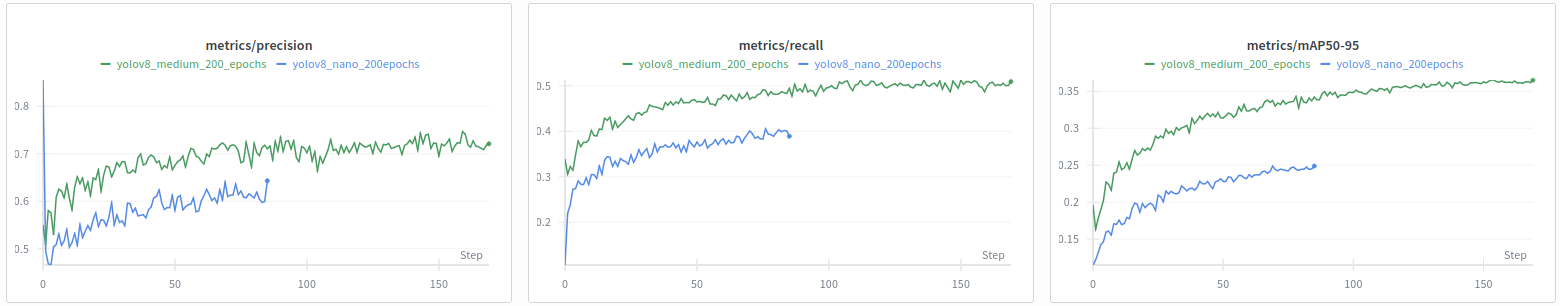
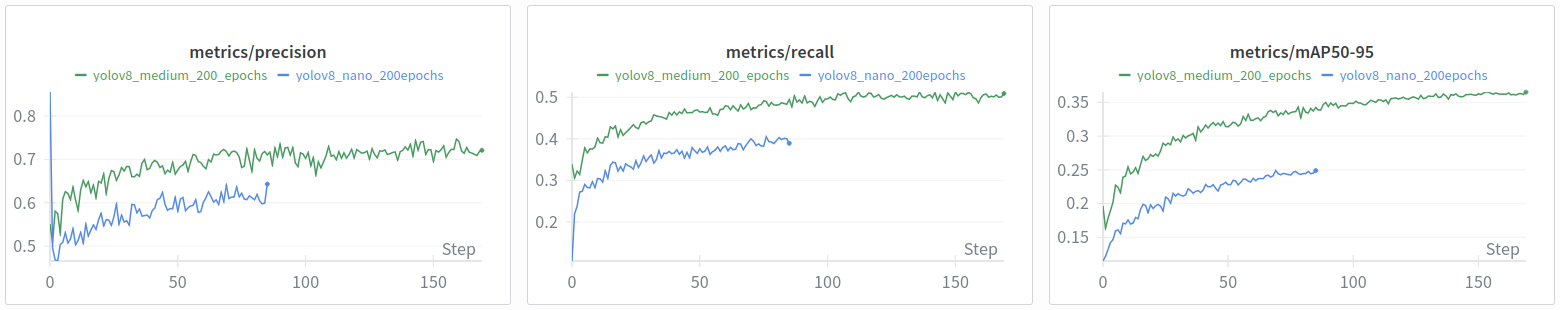
Nueva seccion en bt4

diff --git a/latex/bt4/entrega.tex b/latex/bt4/entrega.tex
@@ -80,32 +80,13 @@
 \clearpage
 
 \section*{Introducción}
-En este informe se detallan las implementaciones y resultados obtenidos en las tareas de procesamiento de imágenes realizadas en el contexto de los bloques de trabajo BT1 y BT2.
+En este informe se detallan las implementaciones y resultados obtenidos en las tareas de procesamiento de imágenes realizadas en el contexto de los bloques de trabajo BT4.
 Cada bloque de técnicas recibe su propio apartado. 
 Todas las referencias a código fuente, notebooks y datos se encuentran en el repositorio de GitHub asociado al proyecto: \href{https://github.com/oscarveral/vision}{vision}
 
 \section*{Items cubiertos}
 \begin{itemize}
-  \item \textbf{BT1d (5\%x3)}. Implementación de filtros de
-    procesamiento de imágenes básicos y avanzados.
-  \item \textbf{BT1ewc (10\%)}. Implementación manual de algoritmos
-    de procesamiento de imágenes en C y Python.
-  \item \textbf{BT1f (5\%)}. Segmentación-Conteo HSV.
-  \item \textbf{BT1h (5\%)}. Rectificación planar. Deshacer la
-    distorsión de la lente ojo de pez.
-  \item \textbf{BT1o (5\%)}. Umbralizado dinámico con Otsu y CLAHE.
-  \item \textbf{BT1p (5\%)}. Gráficas de resultados y comparativas
-    de rendimiento.
-  \item \textbf{BT2a (5\%)}. RANSAC/HT para rectas.
-  \item \textbf{BT2c (5\%)}. Estudio empírico de la convergencia.
-  \item \textbf{BT2d (5\%)}. RANSAC/HT para círculos.
-  \item \textbf{BT2e (5\%)}. Detección multi-instancia.
-\end{itemize}
-
-\section*{Items cubiertos parcialmente}
-\begin{itemize}
-  \item \textbf{BT2g (5\%)}. Modelo geométrico más complejo: por la implementación de detección de segmentos a partir de la detección de rectas.
-  \item \textbf{BT2i (10\%)}. Programación HT/RANSAC manual: se ha implementado RANSAC desde cero en C, pero no se ha llegado a comparar con funciones de librería.
+  \item \textbf{TODO}.
 \end{itemize}
 
 
@@ -114,6 +95,9 @@ Todas las referencias a código fuente, notebooks y datos se encuentran en el re
 
 Para las aplicaciones de Deep Learning hemos querido centrarnos en la detección de objetos. En el caso de nuestro dataset,
 buscamos detecctar señales de tráfico. Para esta tarea, hemos escogido reentrenar modelos de la familia YOLOv8.
+
+\textit{Items de evaluación: \underline{\textbf{BT1h}},
+\underline{\textbf{BT1ewc}}.}
 
 \subsection{Arquitectura del modelo}
 
@@ -175,21 +159,21 @@ aplica las siguientes transformaciones:
             generando archivos \texttt{.txt} vacíos para ellas.
 \end{itemize}
 
-El dataset resultante, denominado \texttt{bt4}, consta de un subconjunto de 2000 imágenes 
-seleccionadas de forma uniformemente aleatoria de entre las primeras 50000 de ZOD. 
+El dataset resultante, denominado \texttt{bt4}, consta de un subconjunto de 2,000 imágenes 
+seleccionadas de forma uniformemente aleatoria de entre las primeras 50,000 de ZOD. 
 Estas se encuentran divididas en un 80\% para entrenamiento (\textit{Train}) y un 20\% 
-para validación (\textit{Val}).
+para validación (\textit{Val}) acompañadas de sus correspondientes archivos de anotaciones en formato YOLO.
 
 % Un mosaico 3x2 de imágenes de ejemplo con sus bounding boxes
 \begin{figure}[H]
     \centering
     \begin{tabular}{ccc}
-        \includegraphics[width=0.3\textwidth]{images/bt4/000080.png} &
-        \includegraphics[width=0.3\textwidth]{images/bt4/000196.png} &
-        \includegraphics[width=0.3\textwidth]{images/bt4/000329.png} \\
-        \includegraphics[width=0.3\textwidth]{images/bt4/000742.png} &
-        \includegraphics[width=0.3\textwidth]{images/bt4/001955.png} &
-        \includegraphics[width=0.3\textwidth]{images/bt4/002152.png} \\
+        \includegraphics[width=0.49\textwidth]{images/bt4/000080.png} &
+        \includegraphics[width=0.49\textwidth]{images/bt4/000196.png} \\
+        \includegraphics[width=0.49\textwidth]{images/bt4/000329.png} &
+        \includegraphics[width=0.49\textwidth]{images/bt4/000742.png} \\
+        \includegraphics[width=0.49\textwidth]{images/bt4/001955.png} &
+        \includegraphics[width=0.49\textwidth]{images/bt4/002152.png} \\
     \end{tabular}
     \caption{Ejemplos de imágenes del dataset \texttt{bt4} con sus bounding boxes.}
     \label{fig:bt4_examples}
@@ -202,7 +186,7 @@ Este proceso consiste en inicializar el modelo con pesos pre-entrenados en el da
 
 \begin{enumerate}
     \item Se sustituye la última capa de la cabecera (diseñada para 80 clases) por una nueva capa inicializada aleatoriamente diseñada para detectar una única clase: \texttt{TrafficSign}.
-    \item Se congelan parcialmente o se entrenan con una tasa de aprendizaje baja las capas del Backbone para conservar la capacidad de extracción de características básicas (bordes, texturas).
+    \item Se entrenan con una tasa de aprendizaje baja las capas del Backbone para conservar la capacidad de extracción de características básicas (bordes, texturas).
     \item Se entrena la red completa con nuestro dataset curado (\texttt{bt4}) para que el modelo especialice sus pesos en la morfología específica de las señales de tráfico.
 \end{enumerate}
 
@@ -214,7 +198,7 @@ Durante la fase experimental, se han ajustado los siguientes hiperparámetros cl
             y la velocidad de entrenaminento y uso de memoria.
     
     \item \textbf{Épocas (\texttt{epochs}):} Representa el número de veces que el modelo ve el dataset completo. 
-     Se configuró un máximo de 100 épocas, utilizando un mecanismo de early stopping
+     Se configuró un máximo de 200 épocas, utilizando un mecanismo de early stopping
      (paciencia = 15) para detener el entrenamiento si el modelo dejaba de mejorar, 
      evitando así el sobreajuste.
     
@@ -335,8 +319,8 @@ corresponde a la clase \texttt{TrafficSign} y la segunda a la clase \texttt{Back
 \begin{figure}[H]
     \centering
     \begin{tabular}{cc}
-        \includegraphics[width=0.45\textwidth]{images/bt4/confusion_matrix_nano.png} &
-        \includegraphics[width=0.45\textwidth]{images/bt4/confusion_matrix_medium.png} \\
+        \includegraphics[width=0.5\textwidth]{images/bt4/confusion_matrix_nano.png} &
+        \includegraphics[width=0.5\textwidth]{images/bt4/confusion_matrix_medium.png} \\
         (a) YOLOv8 Nano & (b) YOLOv8 Medium \\
     \end{tabular}
     \caption{Matrices de confusión normalizadas para las variantes (a) YOLOv8 Nano y (b) YOLOv8 Medium.}
@@ -358,7 +342,8 @@ Para evaluar el impacto del reentrenamiento, hemos comparado los modelos reentre
 La evolución de las métricas clave se muestra en la imagen \ref{img:metrics}.
 
 \begin{figure}[H]
-    \includegraphics[width=0.9\textwidth]{images/bt4/metrics.png}
+    \centering
+    \includegraphics[width=0.99\textwidth]{images/bt4/metrics.png}
     \caption{Evolución de las métricas clave durante el entrenamiento para las variantes (a) YOLOv8 Nano y (b) YOLOv8 Medium.}
     \label{img:metrics}
 \end{figure}
@@ -383,13 +368,18 @@ a las características específicas de las señales de tráfico presentes en nue
     \label{tab:base_vs_finetuned}
 \end{table}
 
-
+La precisión inicial artificialmente alta (85.55\%) del modelo base no indica un buen rendimiento, 
+sino un comportamiento extremadamente conservador: detecta muy pocas instancias (Recall ~10\%) 
+pero con alta seguridad. El reentrenamiento equilibra el modelo, sacrificando esa 'falsa' 
+precisión inicial para triplicar la capacidad de recuperación de objetos (Recall ~39\%).
+De hecho, podemos ver en la primera gráfica de la Figura \ref{img:metrics} cómo la precisión disminuye 
+bruscamente en la primera época.
 
 \subsubsection{Rendimiento en tiempo real}
 
 La viabilidad práctica de los modelos se confirma con el análisis de los tiempos de inferencia medidos en la GPU NVIDIA RTX 4090.
 El modelo YOLOv8 Nano alcanza un tiempo promedio de inferencia de aproximadamente 5 ms por imagen, mientras que el modelo Medium
-tarda alrededor de 7 ms. Dado que el ubbmbral para aplicaciones en tiempo real suele situarse en torno a los 33 ms (30 fps), 
+tarda alrededor de 7 ms. Dado que el umbral para aplicaciones en tiempo real suele situarse en torno a los 33 ms (30 fps), 
 ambos modelos son capaces de operar en tiempo real, incluso el más complejo. La diferencia de 2 ms 
 a favor del modelo Nano no justifica la pérdida de 12 puntos porcentuales en mAP50-95, por lo que
 valida la elección del modelo Medium para aplicaciones prácticas. Claro está, que estos tiempos pueden variar
@@ -408,12 +398,12 @@ A continuación, se muestran imágenes de ejemplo con las predicciones realizada
         (a) ZOD 000224 YOLOv8 Nano & (b) ZOD 000224 YOLOv8 Medium \\
         \includegraphics[width=0.45\textwidth]{images/bt4/inferencia_nano_001237.png} &
         \includegraphics[width=0.45\textwidth]{images/bt4/inferencia_medium_001237.png} \\
-        (a) ZOD 001237 YOLOv8 Nano & (b) ZOD 001237 YOLOv8 Medium \\
+        (c) ZOD 001237 YOLOv8 Nano & (d) ZOD 001237 YOLOv8 Medium \\
         \includegraphics[width=0.45\textwidth]{images/bt4/inferencia_nano_006283.png} &
         \includegraphics[width=0.45\textwidth]{images/bt4/inferencia_medium_006283.png} \\
-        (a) ZOD 006283 YOLOv8 Nano & (b) ZOD 006283 YOLOv8 Medium \\
+        (e) ZOD 006283 YOLOv8 Nano & (f) ZOD 006283 YOLOv8 Medium \\
     \end{tabular}
-    \caption{Predicciones con (a) YOLOv8 Nano y (b) YOLOv8 Medium.}
+    \caption{Predicciones con YOLOv8 Nano y YOLOv8 Medium.}
     \label{fig:qualitative_comparison_1}
 \end{figure}
 
@@ -424,6 +414,72 @@ de recall observado en las métricas cuantitativas.
 
 También hemos querido evaluar la viabilidad de los modelos en el procesamiento de vídeo probando con 
 cuatro clips cortos también extraídos de ZOD. Los resultados se muestran en el vídeo que acompaña a este informe.
+
+\subsubsection{Exportación y despliegue}
+
+Para evaluar la viabilidad del despliegue en entornos realistas (en dispositivos con recursos limitados),
+hemos exportado el modelo YOLOv8 Medium reentrenado al formato \texttt{ONNX} (Open Neural Network Exchange).
+Este formato es ampliamente compatible con diversas plataformas y frameworks de inferencia, facilitando su integración en aplicaciones móviles o embebidas.
+
+Realizamos una comparativa de rendimiento entre la inferencia nativa en PyTorch y la inferencia utilizando \texttt{ONNX Runtime}.
+Los resultados promediados tras 50 ejecuciones mostraron lo siguiente:
+\begin{table}[H]
+    \centering
+    \begin{tabular}{lccc}
+        \toprule
+        \textbf{Formato} & \textbf{Tamaño en disco} & \textbf{Tiempo Promedio (CPU)} & \textbf{Mejora} \\
+        \midrule
+        PyTorch (.pt) & 49.66 MB & 137.64 ms & - \\
+        ONNX  (.onnx) & 98.95 MB & 77.20 ms & 1.78x \\
+        \bottomrule
+    \end{tabular}
+    \caption{Comparativa de tiempos de inferencia entre PyTorch y ONNX Runtime para YOLOv8 Medium.}
+    \label{tab:onnx_comparison}
+\end{table}
+
+La exportación a ONNX resulta en una mejora significativa del tiempo de inferencia en CPU (reduciéndolo en un 44\%) dando una
+capacidad de procesamiento cercana a 13 fps en una CPU estándar. Aunque el tamaño del modelo se duplica, 
+esto es un compromiso aceptable para lograr una inferencia más rápida en dispositivos sin GPU dedicada. 
+Adicionalmente, otra ventaja de la conversión de formato es que 
+el archivo ONNX puede ser desplegado en sistemas escritos en otros lenguajes como C++ o Java eliminando
+la dependencia de PyTorch. 
+
+Mediante la herramienta Netron (\url{https://netron.app/}) hemos visualizado la estructura del modelo exportado.
+
+\begin{figure}[H]
+    \centering
+    \begin{tabular}{cc}
+        \includegraphics[width=0.37\textwidth]{images/bt4/netron_pt.png} &
+        \includegraphics[width=0.37\textwidth]{images/bt4/netron_onnx.png} \\
+        (a) Arquitectura .pt & (b) Arquitectura .onnx \\
+    \end{tabular}
+    \caption{Comparativa de arquitecturas.}
+    \label{fig:qualitative_comparison}
+\end{figure}
+
+Mientras que el modelo original encapsula las operaciones complejas en módulos específicos de PyTorch de 
+alto nivel como \texttt{Conv2d}, \texttt{BatchNorm2d} y \texttt{SiLU}, el modelo ONNX descompone estas operaciones en
+operaciones más básicas como \texttt{Conv}, \texttt{Sigmoid} y \texttt{Mul}.
+Como se observa en la Figura \ref{fig:qualitative_comparison}, las capas convolucionales se representan 
+explícitamente como una secuencia de nodos, revelando la estructura a bajo nivel. La figura \ref{fig:onnx_runtime}
+muestra la convergencia  de las distintas ramas de la pirámide de características. 
+Se aprecian operaciones de \texttt{Reshape}, \texttt{Transpose} y \texttt{Concat} 
+necesarias para unificar las predicciones a diferentes escalas en un único tensor de salida \texttt{output0}.
+
+\begin{figure}[H]
+    \centering
+    \includegraphics[width=0.9\textwidth]{images/bt4/netron_onnx2.png}
+    \caption{Final del modelo YOLOv8 Medium exportado a ONNX.}
+    \label{fig:onnx_runtime}
+\end{figure}
+
+Hemos verificado la equivalencia de las predicciones entre ambos formatos
+utilizando una imagen de prueba. Al comparar los tensores de 
+salida, la discrepancia máxima observada entre las coordenadas de las cajas 
+fue de $6\times10^{-8}$ píxeles. Además, el número de detecciones fueron idénticas.
+Esto confirma que la exportación a ONNX mantiene la integridad del modelo y sus capacidades predictivas,
+siendo la diferencia prácticamente despreciable y atribuible 
+a pequeñas variaciones numéricas inherentes a la representación en coma flotante.
 
 \clearpage
 
